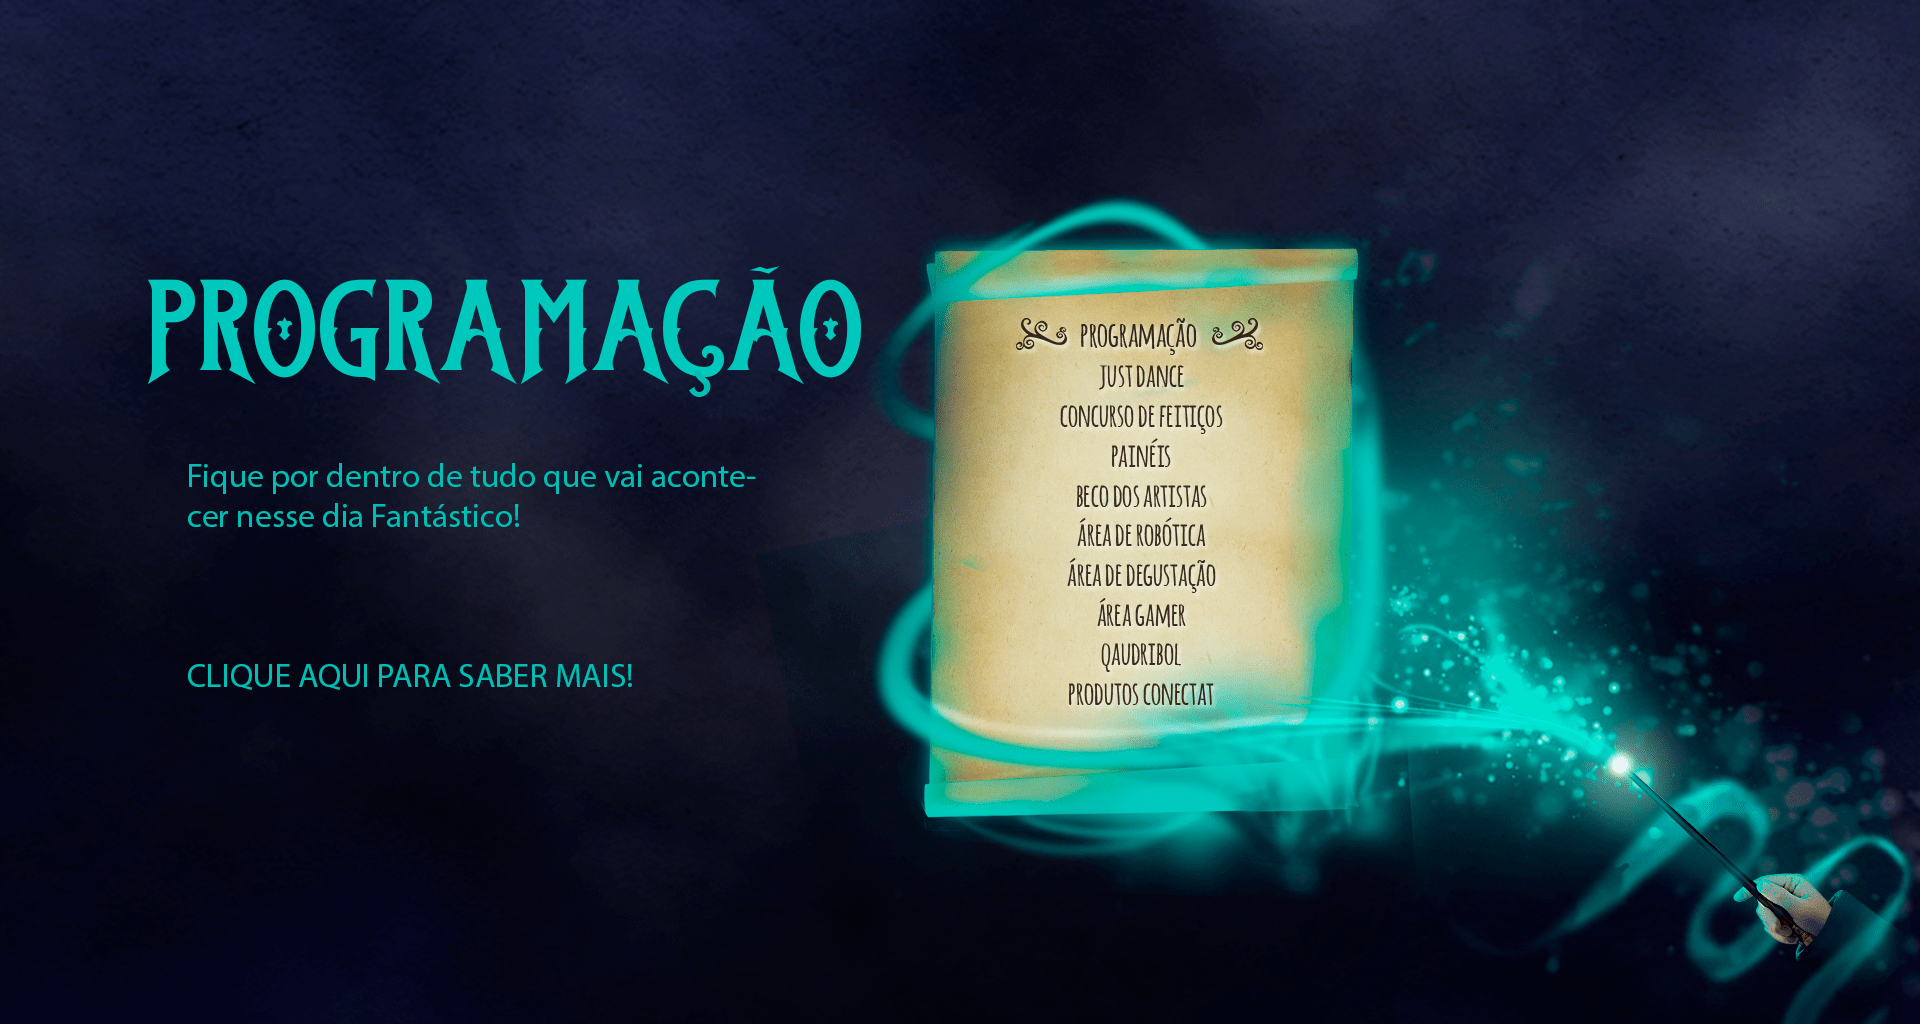
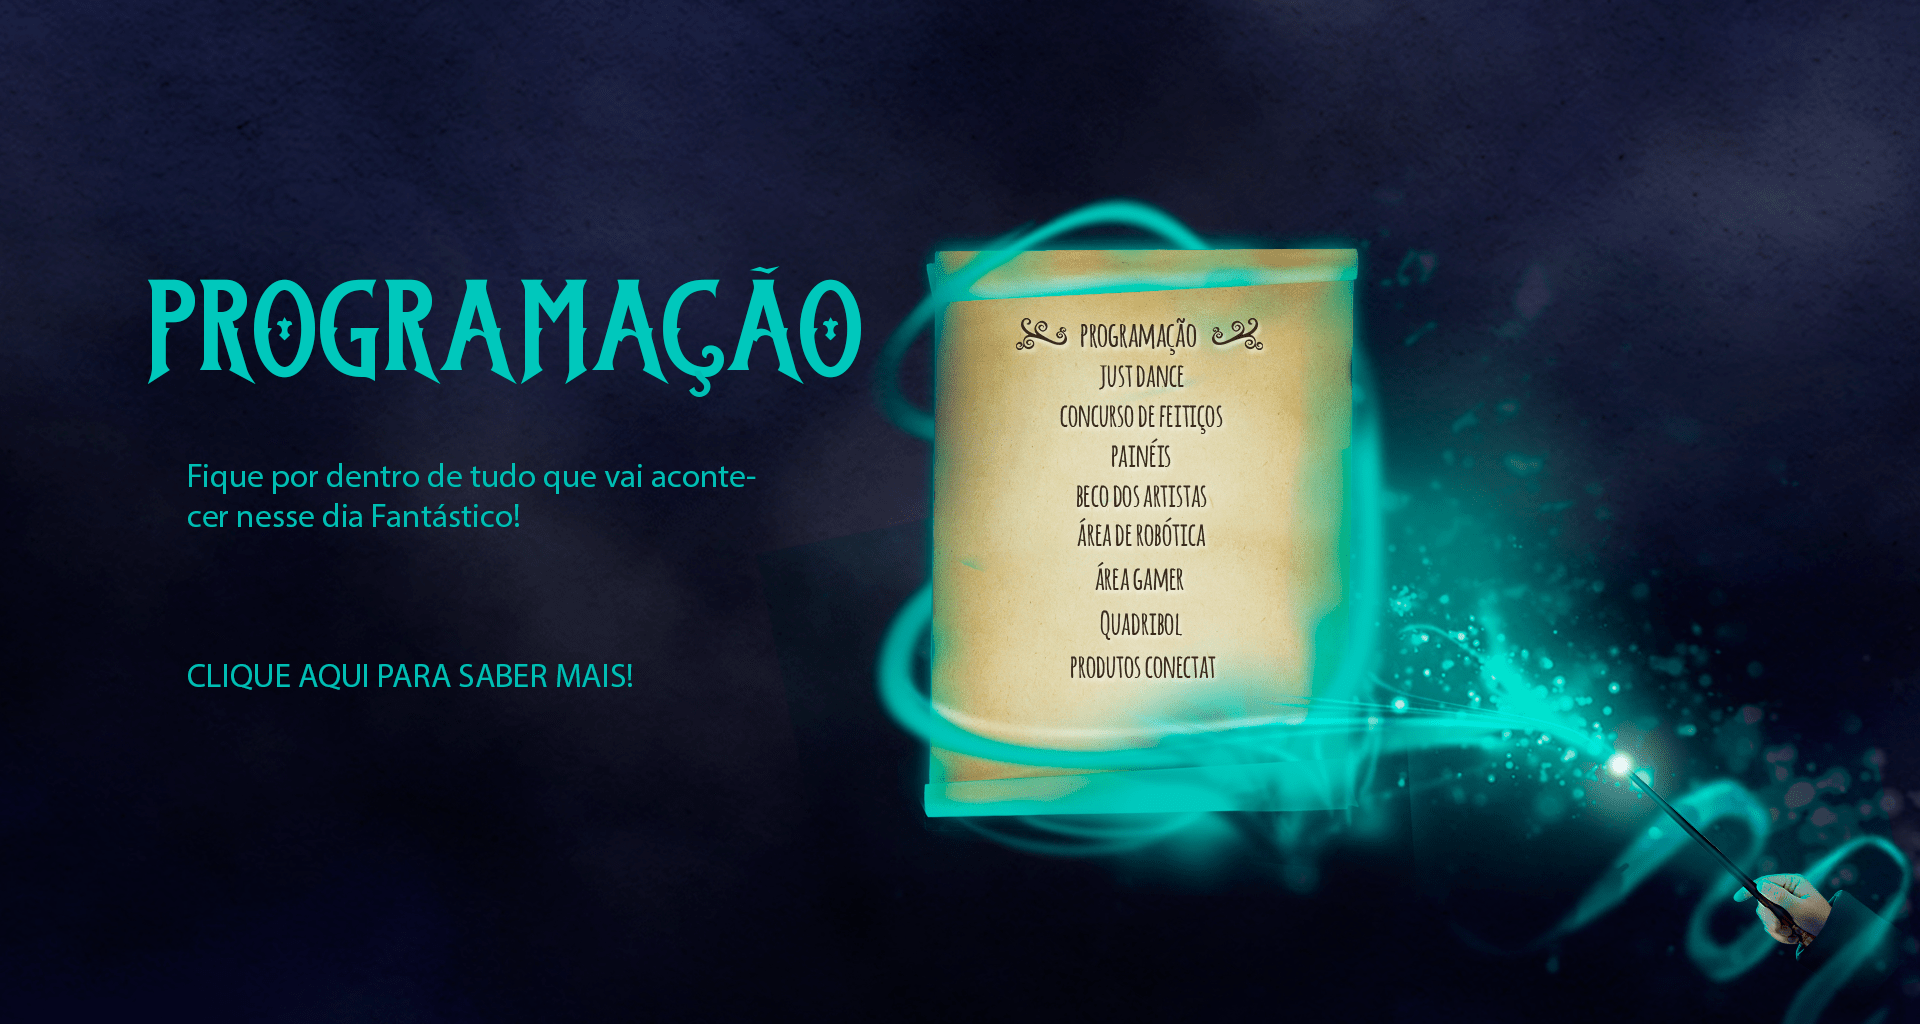
Adicionado paineis, programação

diff --git a/css/paineis.css b/css/paineis.css
@@ -18,6 +18,18 @@ header{
 	text-align: center;
 }
 
+.paineis h2{
+	font-family: Stanley Demo;
+	color: #19bdb2;
+	text-align: center;
+}
+
+.bioConvidados{
+	text-align: justify !important;
+	color: #19bdb2 !important;
+	font-size: 18px !important;
+}
+
 .camisas2 img{
 	margin-top: 2%;
 }
@@ -39,10 +51,29 @@ header{
 	font-size: 22px;
 }
 
+.box1{
+	width: 100% !important;
+}
+
 @media screen and (max-width: 767px){
 	 #camisaLogo{
 		margin-left: 4%;
 		margin-top: -25%;
 		width: 100%;
+	}
+	#painelLogo{
+		width: 100%;
+		margin-top: -22%;
+	}
+	.artistas{
+		display: flex;
+		flex-direction: column-reverse;
+	}
+	#potterish_title{
+		margin-top: 6%;
+	}
+	.box{
+		width: 100% !important;
+		margin-top: -28% !important;
 	}
 }

diff --git a/paineis.php b/paineis.php
@@ -28,6 +28,7 @@
 		<!-- Meu CSS -->
 	<link rel="stylesheet" type="text/css" href="main.css">
 	<link rel="stylesheet" type="text/css" href="css/paineis.css">
+
 </head>
 <body>
 
@@ -80,8 +81,27 @@
 	
 	<section class="paineis">
 		<div class="container">
-			<img src="photos/IF/pages/pagePaineis.png">
-			<h1>Em Breve  ...</h1>
+			<img id="painelLogo" src="photos/IF/pages/pagePaineis.png">	
+			<div class="row artistas">
+				<div class="col-12 col-sm-12 col-md-12 col-lg-5">
+					<h2 id="potterish_title">O maior website dedicado a Harry Potter da America Latina</h2>
+					<p class="bioConvidados">Premiado pela autora J.K. Rowling, o portal já chegou a registrar mais de um milhão de visitas em um único dia e, hoje, amplia sua atuação por meio das redes sociais, conquistando novos leitores e consolidando-se como grande aliado na manutenção d’O Mundo Bruxo de J.K. Rowling, conforme a franquia Animais Fantásticos chega aos cinemas e a peça Harry Potter e a Criança Amaldiçoada estreia nos palcos ao redor do mundo.
+					</p>
+				</div>
+				<div class="col-12 col-sm-0 col-md-0 col-lg-7">
+					<img src="photos/parceiros/potterish.jpg">
+				</div>
+			</div>
+			<div class="row artistas">
+				<div class="col-12 col-sm-12 col-md-12 col-lg-5">
+					<h2 id="potterish_title">Workshop de Quadribol</h2>
+					<p class="bioConvidados">Premiado pela autora J.K. Rowling, o portal já chegou a registrar mais de um milhão de visitas em um único dia e, hoje, amplia sua atuação por meio das redes sociais, conquistando novos leitores e consolidando-se como grande aliado na manutenção d’O Mundo Bruxo de J.K. Rowling, conforme a franquia Animais Fantásticos chega aos cinemas e a peça Harry Potter e a Criança Amaldiçoada estreia nos palcos ao redor do mundo.
+					</p>
+				</div>
+				<div class="col-12 col-sm-0 col-md-0 col-lg-7">
+					<img src="photos/parceiros/quadribol2.png">
+				</div>
+			</div>
 		</div>		
 	</section>
 
@@ -98,12 +118,10 @@
 				</div>
 				<div class="col-12 col-md-4 col-lg-5 apoio">
 					<h3>Apoio:</h3>
-					<img src="photos/parceiros/piticas.png">
 					<img style="width: 120px !important;" src="photos/parceiros/balao.png">
-					<img src="photos/parceiros/redit.png">
-					<img src="photos/parceiros/cultura.png">
 					<img src="photos/parceiros/bourmet.png">
 					<img src="photos/parceiros/quadribol.png">
+					<img style="width: 120px !important;" src="photos/parceiros/potterish.jpg">
 				</div>
 				<div class="col-12 col-md-4 organizador">
 					<h3 style="text-align: center;">Realização:</h3>

diff --git a/programacao.php b/programacao.php
@@ -80,8 +80,23 @@
 	
 	<section class="paineis">
 		<div class="container">
-			<img src="photos/IF/pages/pageProgramacao.png">
-			<h1>Em Breve  ...</h1>
+			<img class="box" src="photos/IF/pages/pageProgramacao.png">
+			<div class="row">
+				<div class="col-12 col-sm-6 col-md-6 col-lg-6">
+					<img class="box1" src="photos/IF/boxBeco.png">
+				</div>
+				<div class="col-12 col-sm-6 col-md-6 col-lg-6">
+					<img class="box1" src="photos/IF/boxPaineis.png">
+				</div>
+			</div>
+			<div style="margin-top: 2%;" class="row">
+				<div class="col-12 col-sm-6 col-md-6 col-lg-6">
+					<img class="box1" src="photos/IF/boxAreaGamer.png">
+				</div>
+				<div class="col-12 col-sm-6 col-md-6 col-lg-6">
+					<img class="box1" src="photos/IF/boxJD.png">
+				</div>
+			</div>
 		</div>		
 	</section>
 
@@ -98,12 +113,10 @@
 				</div>
 				<div class="col-12 col-md-4 col-lg-5 apoio">
 					<h3>Apoio:</h3>
-					<img src="photos/parceiros/piticas.png">
 					<img style="width: 120px !important;" src="photos/parceiros/balao.png">
-					<img src="photos/parceiros/redit.png">
-					<img src="photos/parceiros/cultura.png">
 					<img src="photos/parceiros/bourmet.png">
 					<img src="photos/parceiros/quadribol.png">
+					<img style="width: 120px !important;" src="photos/parceiros/potterish.jpg">
 				</div>
 				<div class="col-12 col-md-4 organizador">
 					<h3 style="text-align: center;">Realização:</h3>

diff --git a/beco.php b/beco.php
@@ -152,12 +152,10 @@
 				</div>
 				<div class="col-12 col-md-4 col-lg-5 apoio">
 					<h3>Apoio:</h3>
-					<img src="photos/parceiros/piticas.png">
 					<img style="width: 120px !important;" src="photos/parceiros/balao.png">
-					<img src="photos/parceiros/redit.png">
-					<img src="photos/parceiros/cultura.png">
 					<img src="photos/parceiros/bourmet.png">
 					<img src="photos/parceiros/quadribol.png">
+					<img style="width: 120px !important;" src="photos/parceiros/potterish.jpg">
 				</div>
 				<div class="col-12 col-md-4 organizador">
 					<h3 style="text-align: center;">Realização:</h3>

diff --git a/camisas.php b/camisas.php
@@ -141,12 +141,10 @@
 				</div>
 				<div class="col-12 col-md-4 col-lg-5 apoio">
 					<h3>Apoio:</h3>
-					<img src="photos/parceiros/piticas.png">
 					<img style="width: 120px !important;" src="photos/parceiros/balao.png">
-					<img src="photos/parceiros/redit.png">
-					<img src="photos/parceiros/cultura.png">
 					<img src="photos/parceiros/bourmet.png">
 					<img src="photos/parceiros/quadribol.png">
+					<img style="width: 120px !important;" src="photos/parceiros/potterish.jpg">
 				</div>
 				<div class="col-12 col-md-4 organizador">
 					<h3 style="text-align: center;">Realização:</h3>

diff --git a/index.php b/index.php
@@ -212,12 +212,10 @@
 				</div>
 				<div class="col-12 col-md-4 col-lg-5 apoio">
 					<h3>Apoio:</h3>
-					<img src="photos/parceiros/piticas.png">
 					<img style="width: 120px !important;" src="photos/parceiros/balao.png">
-					<img src="photos/parceiros/redit.png">
-					<img src="photos/parceiros/cultura.png">
 					<img src="photos/parceiros/bourmet.png">
 					<img src="photos/parceiros/quadribol.png">
+					<img style="width: 120px !important;" src="photos/parceiros/potterish.jpg">
 				</div>
 				<div class="col-12 col-md-4 organizador">
 					<h3 style="text-align: center;">Realização:</h3>

diff --git a/sobre.php b/sobre.php
@@ -103,12 +103,10 @@
 				</div>
 				<div class="col-12 col-md-4 col-lg-5 apoio">
 					<h3>Apoio:</h3>
-					<img src="photos/parceiros/piticas.png">
 					<img style="width: 120px !important;" src="photos/parceiros/balao.png">
-					<img src="photos/parceiros/redit.png">
-					<img src="photos/parceiros/cultura.png">
 					<img src="photos/parceiros/bourmet.png">
 					<img src="photos/parceiros/quadribol.png">
+					<img style="width: 120px !important;" src="photos/parceiros/potterish.jpg">
 				</div>
 				<div class="col-12 col-md-4 organizador">
 					<h3 style="text-align: center;">Realização:</h3>

diff --git a/areaGamer.php b/areaGamer.php
@@ -98,12 +98,10 @@
 				</div>
 				<div class="col-12 col-md-4 col-lg-5 apoio">
 					<h3>Apoio:</h3>
-					<img src="photos/parceiros/piticas.png">
 					<img style="width: 120px !important;" src="photos/parceiros/balao.png">
-					<img src="photos/parceiros/redit.png">
-					<img src="photos/parceiros/cultura.png">
 					<img src="photos/parceiros/bourmet.png">
 					<img src="photos/parceiros/quadribol.png">
+					<img style="width: 120px !important;" src="photos/parceiros/potterish.jpg">
 				</div>
 				<div class="col-12 col-md-4 organizador">
 					<h3 style="text-align: center;">Realização:</h3>

diff --git a/convidados.php b/convidados.php
@@ -98,12 +98,10 @@
 				</div>
 				<div class="col-12 col-md-4 col-lg-5 apoio">
 					<h3>Apoio:</h3>
-					<img src="photos/parceiros/piticas.png">
 					<img style="width: 120px !important;" src="photos/parceiros/balao.png">
-					<img src="photos/parceiros/redit.png">
-					<img src="photos/parceiros/cultura.png">
 					<img src="photos/parceiros/bourmet.png">
 					<img src="photos/parceiros/quadribol.png">
+					<img style="width: 120px !important;" src="photos/parceiros/potterish.jpg">
 				</div>
 				<div class="col-12 col-md-4 organizador">
 					<h3 style="text-align: center;">Realização:</h3>

diff --git a/experienciavip.php b/experienciavip.php
@@ -97,12 +97,10 @@
 				</div>
 				<div class="col-12 col-md-4 col-lg-5 apoio">
 					<h3>Apoio:</h3>
-					<img src="photos/parceiros/piticas.png">
 					<img style="width: 120px !important;" src="photos/parceiros/balao.png">
-					<img src="photos/parceiros/redit.png">
-					<img src="photos/parceiros/cultura.png">
 					<img src="photos/parceiros/bourmet.png">
 					<img src="photos/parceiros/quadribol.png">
+					<img style="width: 120px !important;" src="photos/parceiros/potterish.jpg">
 				</div>
 				<div class="col-12 col-md-4 organizador">
 					<h3 style="text-align: center;">Realização:</h3>

diff --git a/justdance.php b/justdance.php
@@ -98,12 +98,10 @@
 				</div>
 				<div class="col-12 col-md-4 col-lg-5 apoio">
 					<h3>Apoio:</h3>
-					<img src="photos/parceiros/piticas.png">
 					<img style="width: 120px !important;" src="photos/parceiros/balao.png">
-					<img src="photos/parceiros/redit.png">
-					<img src="photos/parceiros/cultura.png">
 					<img src="photos/parceiros/bourmet.png">
 					<img src="photos/parceiros/quadribol.png">
+					<img style="width: 120px !important;" src="photos/parceiros/potterish.jpg">
 				</div>
 				<div class="col-12 col-md-4 organizador">
 					<h3 style="text-align: center;">Realização:</h3>
